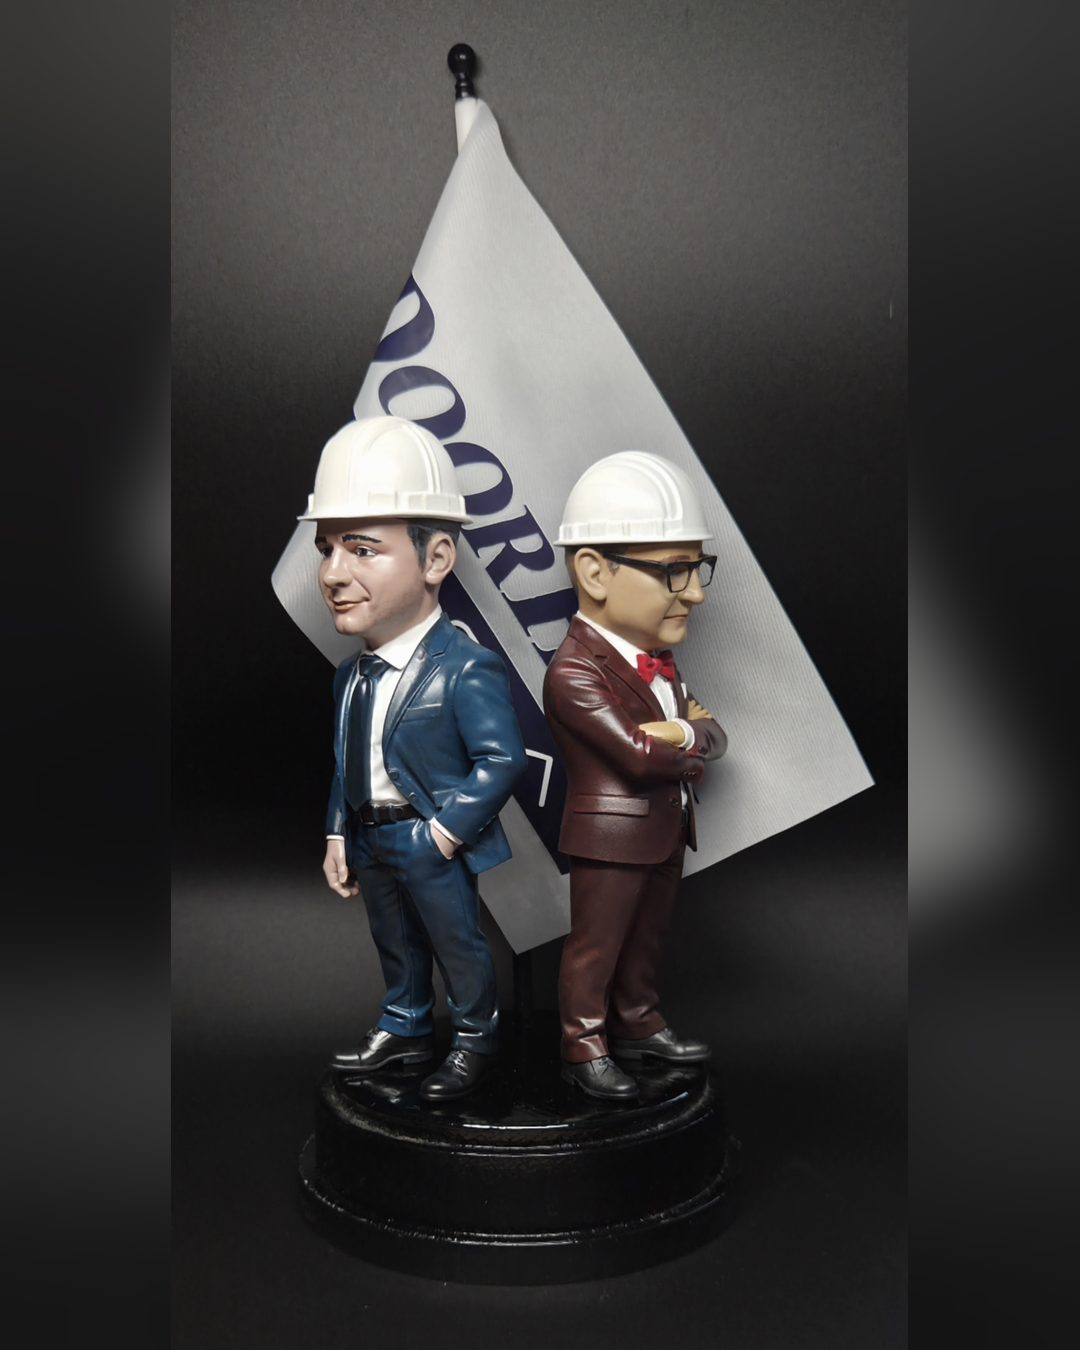
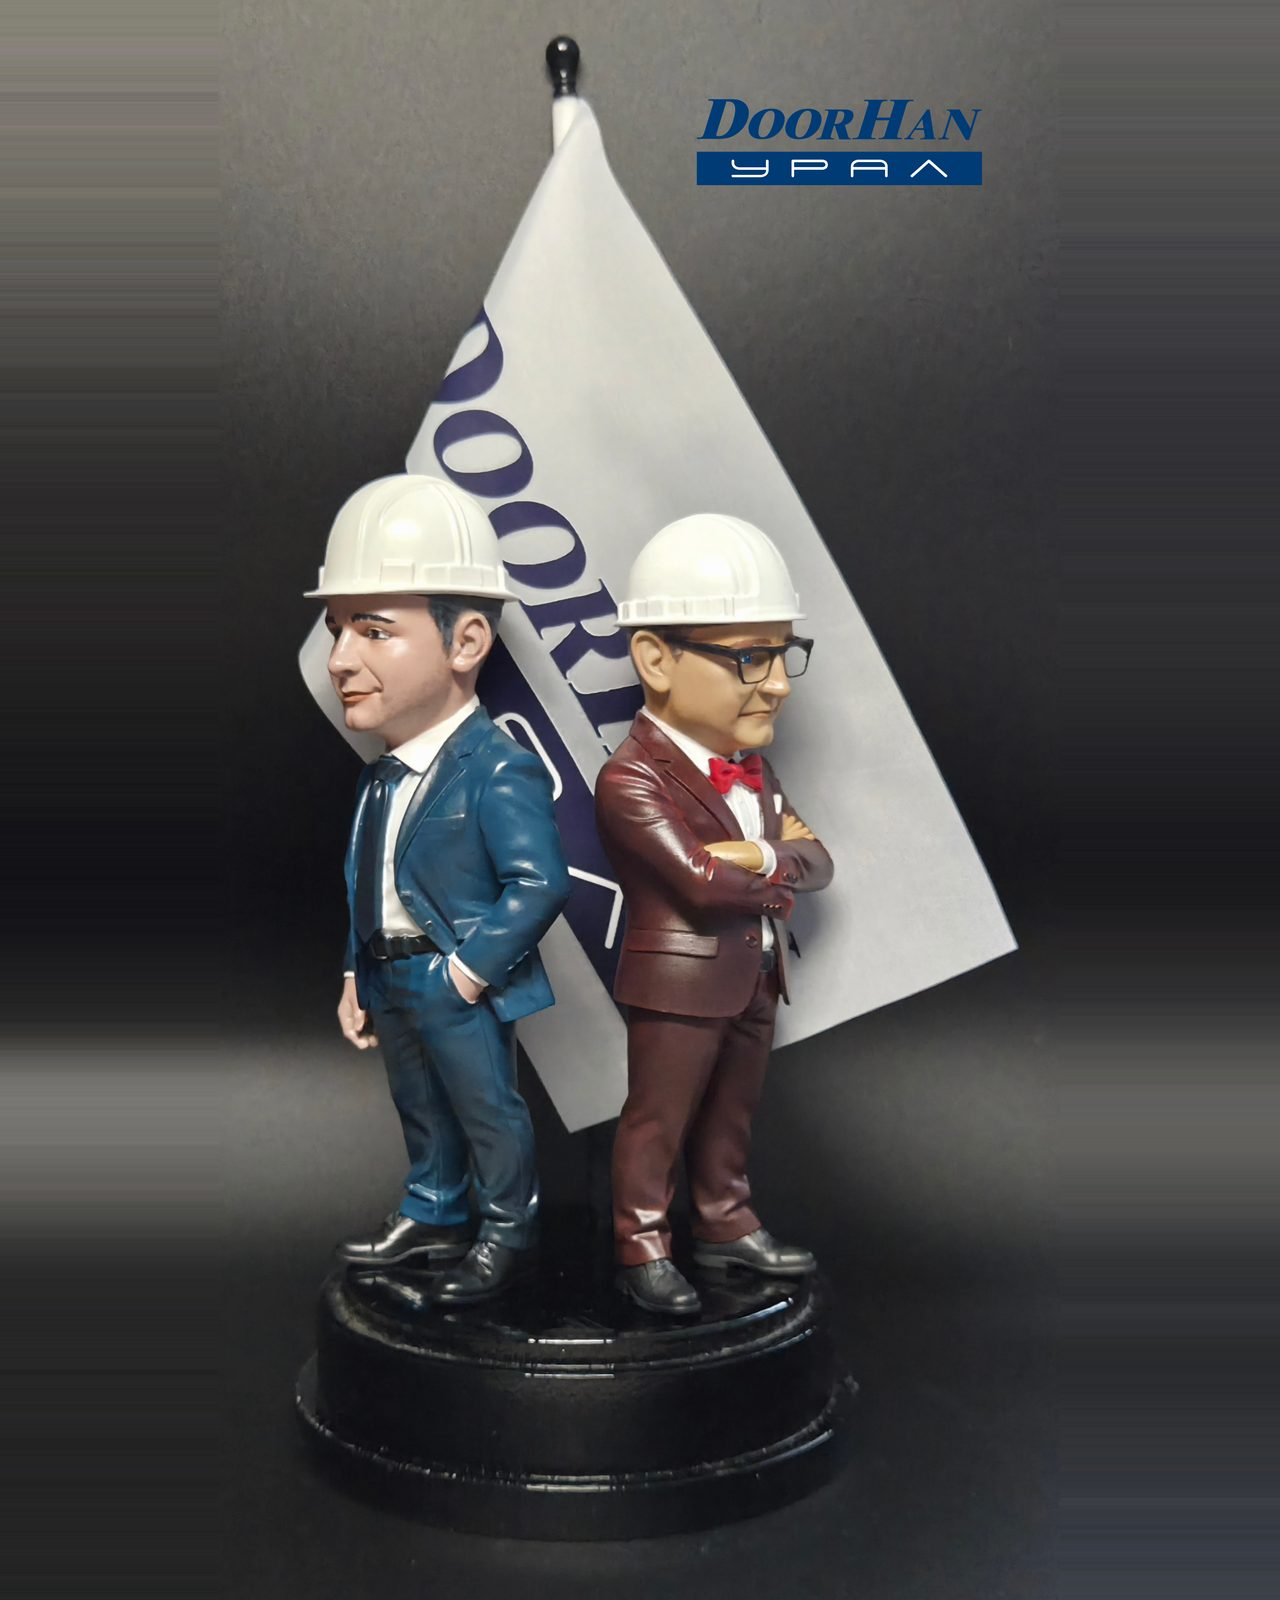
Add files via upload

diff --git a/media/README.md b/media/README.md
@@ -20,14 +20,17 @@
 | `dima.jpg` | Дмитрий · Фигурка-миниатюра по фото | ✅ стоит |
 | `nadya.jpg` | Надежда · Фигурка-миниатюра по фото | ✅ стоит |
 | `flash.jpg` | Флеш · Фигурка питомца | ✅ стоит |
-| `dorhan.jpg` | ДорХан-Урал · Корпоративная фигурка | ждёт съёмки 12.08 |
-| `morph.mp4` + `morph.jpg` | Из фото в фигурку · видео | ждёт сжатия ролика |
+| `dorhan.jpg` | ДорХан-Урал · Корпоративная фигурка | ✅ стоит |
+| `hamer.jpg` | Хаммер · Брелок по фото | ✅ стоит (имя исправлено: было «Хамер») |
+| `morph.mp4` + `morph.jpg` | Из фото в фигурку · видео | ✅ стоит |
 | `pair.jpg` | Парная фигурка · Свадьба и годовщина | работы пока нет |
 
 Откуда взяты готовые:
 - `dima.jpg` ← `10_Маркетинг\Дима\для Instagram\20260804_171438_4x5_1080x1350.jpg`
 - `nadya.jpg` ← `10_Маркетинг\Надя\для Instagram\20260805_103357_4x5_1080x1350.jpg`
 - `flash.jpg` ← `10_Маркетинг\видео Бигль\3 Статуэтка Флеша.jpg`, кадрирован в 4:5
+- `dorhan.jpg` ← `10_Маркетинг\ДХУ\Новое фото ДХУ.png` (2162×4096), фон дополнен по краям до 4:5, чтобы не срезать логотип и основание
+- `hamer.jpg` ← скачан с живого сайта forever-figure.ru (в локальном index.html карточки не было, при синхронизации заодно исправлено имя «Хамер» → «Хаммер»)
 
 **Мультяшный стиль в портфолио не ставим.** Единственный материал — `Чиби Надя.png` —
 это макет до печати, а не готовая работа. Ставить его как работу — та же ошибка,
@@ -109,9 +112,24 @@ WEBP с плавным переходом — 222 и 462 КБ. GIF в папке
 - Обязательно рядом класть постер (`morph.jpg`) — до нажатия виден он,
   сам ролик до этого не качается
 
-⚠ **Исходник `10_Маркетинг\видео Бигль\FF_morph_FINAL_9x16.mp4` весит 10,5 МБ** —
-вдвое больше нормы. Нужно пережать до ~4 МБ. На этой машине ffmpeg не установлен,
-поэтому сжатие пока не сделано.
+**Как пережали ролик без ffmpeg.** Его на этой машине нет, но свой FFmpeg есть
+внутри Blender. Скрипт `05_Генераторы (инструменты)\Пережать_видео_Blender.py`:
+
+```
+blender.exe -b --factory-startup --python "Пережать_видео_Blender.py" -- ^
+    "<абсолютный путь к исходнику.mp4>" "<папка вывода>" 540 40 MEDIUM
+```
+
+Исходник `10_Маркетинг\видео Бигль\FF_morph_FINAL_9x16.mp4` — 720×1280, 10,5 МБ.
+Результат — 540×930, **2,1 МБ**. Путь обязательно абсолютный: относительный
+Blender молча не открывает и отдаёт размер 0×0.
+
+Третий аргумент — ширина, четвёртый — **сколько пикселей срезать снизу**.
+Срез нужен: в первых кадрах внизу вшита плашка «Содержимое, сгенерированное ИИ».
+40 px её убирают. Без этого зритель решит, что и фигурка сгенерирована.
+
+Постер `morph.jpg` — финальный кадр ролика, то же разрешение 540×930.
+Разрешение должно совпадать с видео, иначе `cover` обрежет их по-разному.
 
 ## Заливка на сайт
 
